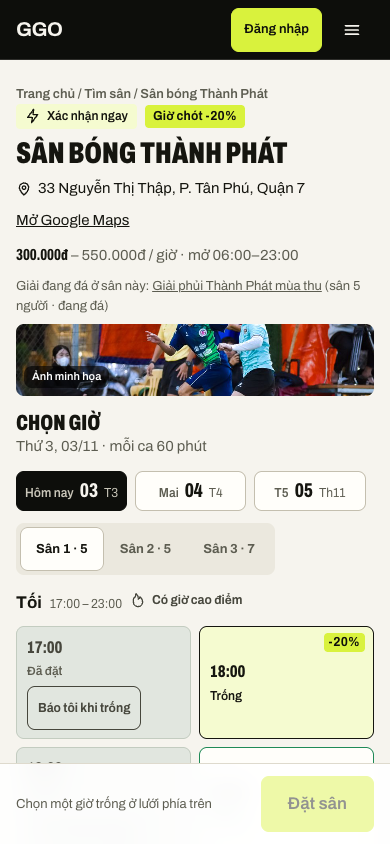
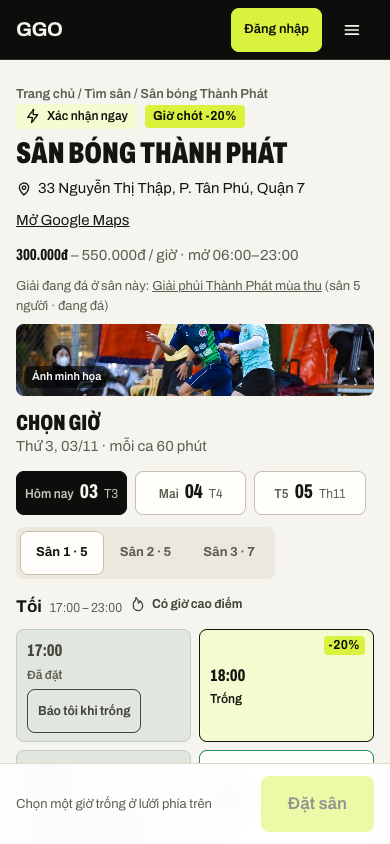
Ảnh trang sân 390 chụp lại sau khi chip ngày cao 44px; cập nhật số đo và bỏ dòng chưa xử lý

diff --git a/docs/buoi2/nop-bai.md b/docs/buoi2/nop-bai.md
@@ -154,7 +154,7 @@ Một ghi nhận khác, không phải lỗi: `docs/TASKS.md` mục T6 ghi "Đã 
 | 3 | Trang chủ **chưa có liên kết tới trang giới thiệu** | Trang chủ | **Đã xử lý.** Thêm trang `public/about.html` (mục 5), liên kết "Giới thiệu GGO" ở footer mọi trang (`public/js/ui/shell.js`) và liên kết "Tìm hiểu về GGO →" ở cuối trang chủ (`public/index.html`). Không đặt vào menu trên cùng vì ở khổ 900 px menu sẽ bị tràn | Trước: không có trang giới thiệu trong `public/`. Sau: trang có và trả 200, đã thêm vào `public/sitemap.xml`; hai liên kết trên đều trỏ tới `about.html` |
 | 5 | **Vòng focus gần như không thấy trên nền tối**: quy tắc chung `:focus-visible { outline: 2px solid var(--text) }` dùng màu `#15150f` trên nền header `#0d0e0b` | Header và menu điện thoại, mọi khổ (liên kết menu, logo, nút Đăng nhập, nút mở menu, mục trong menu, nút khung tìm kiếm trang chủ) | **Đã xử lý.** Vòng focus dùng biến `--focus`: mực trên nền sáng, lime `#d9f23d` trên các vùng nền tối (dòng 135–161). Khung tìm kiếm trang chủ (nền trắng nằm trong ảnh tối) trả lại mực; nút trong khung đó vẽ vòng vào trong nút (`outline-offset: -4px`) vì khung cắt phần vẽ ra ngoài. Nút công cụ demo nổi vẽ vòng lime sát nút (dòng 463–467). Khi kiểm còn phát hiện và sửa thêm hai lỗi cùng nhóm: menu điện thoại đóng vẫn nhận phím Tab dù đã mờ hẳn (nay `visibility: hidden` khi đóng, dòng 401), và header dính che phần tử đang focus khi Tab ngược (`scroll-padding-top` ở dòng 98) | Đo bằng ảnh chụp thật ở mỗi lần Tab, lấy màu nền ngay quanh vòng (3 trang, 390 và 1366, Tab xuôi và ngược, trước 363 mẫu, sau 355 mẫu có vòng): tương phản vòng với nền **trước: 1,06:1** ở header (135 mẫu dưới 3:1); **sau: 15,41:1** trên nền tối, 14,59:1 (vòng mực vào trong nút lime), 16,66–18,16:1 trên nền sáng (liên kết, thẻ, nút Đặt sân). Còn 5 mẫu bị đánh dấu là nút công cụ demo (chỉ có trên dữ liệu giả): vòng sát nút đen nên tương phản đo với chính nút là 15,41:1, không đo với nền trang. Ảnh `focus-lien-ket-menu.png`, `focus-nut-menu.png` |
 | 4 | Ở 768 và 390, mục "Sân còn trống" của trang chủ là **băng cuộn ngang** (có chữ "Vuốt ngang để xem thêm"), nên ảnh chỉ thấy 1–2 thẻ | Trang chủ, 768 / 390 | Cố ý theo thiết kế; nêu rõ khi nộp để người chấm không hiểu là thiếu nội dung | Ở 1366 hiện đủ 3 thẻ trên một hàng |
-| 6 | Ba chip chọn ngày ở trang chi tiết sân cao **41 px** ở 390 px (mức khuyên dùng: 44 px); phát hiện khi đo lại sau đợt cải thiện | Chi tiết sân, 390 px | **Chưa xử lý.** Ghi nhận để sửa tiếp, không ảnh hưởng chức năng | 41 px, chưa đạt 44 px |
+| 6 | Ba chip chọn ngày ở trang chi tiết sân cao **41 px** ở 390 px, thấp hơn mức 44 px (phát hiện khi đo lại sau đợt cải thiện) | Chi tiết sân, 390 px | **Đã xử lý** (commit `8838bcc`): chip cao tối thiểu 44 px ở 390 px | 41 px → 44 px |
 
 **Ghi chú cho người xem ảnh:**
 - Ảnh chụp bản dữ liệu giả nên có thêm thanh "vai trò demo" ở góc dưới và nút giả lập trong menu; bản thật không có các phần này.
@@ -190,7 +190,7 @@ Một ghi nhận khác, không phải lỗi: `docs/TASKS.md` mục T6 ghi "Đã 
 | Chiều dài trang chủ | 4731 → 3730 px | 3779 → 2983 px |
 | Header và logo hiện ra sau | 284 → 64 ms | 109 → 44 ms |
 
-Ở trang sân, 390 × 844 px: hàng giờ đầu tiên trước đây nằm ở y 750–816 và bị thanh đặt sân (y 763) che một phần; nay ở y 624–690, không bị che. Ở 1366 px không đổi (y 489–553).
+Ở trang sân, 390 × 844 px: hàng giờ đầu tiên trước đây nằm ở y 750–816 và bị thanh đặt sân (y 763) che một phần; nay ở y 627–693 (đo sau khi chip ngày cao thêm lên 44 px), không bị che vì thanh đặt sân vẫn ở y 763. Ở 1366 px không đổi (y 489–553).
 
 **Ảnh trước và sau.** Ảnh chụp cùng một kịch bản cho cả hai bản (trước từ commit `a8085ce`, sau từ `main`), chỉ lấy màn hình đầu của mỗi bước. Kịch bản bấm vào giờ đầu tiên của sân đầu tiên trong kết quả nên hai bên có thể rơi vào hai sân khác nhau; so bố cục và chữ, không so tên sân. Ở bản trước, sau khi đăng nhập trang không tự mở hộp xác nhận nên kịch bản phải quay lại sân và bấm Đặt sân lần nữa; ảnh "Hộp xác nhận" của bản trước chụp sau bước đó.
 

diff --git a/docs/buoi2/bao-cao.md b/docs/buoi2/bao-cao.md
@@ -443,7 +443,7 @@ Nhóm đo bằng Playwright trên Chrome, chạy bản dữ liệu mẫu ở má
 | 4 | **Vòng focus gần như không thấy trên nền tối**: viền màu `#15150f` trên header `#0d0e0b` | Header, menu điện thoại, mọi khổ | Vòng focus dùng biến `--focus`: màu chữ trên nền sáng, lime trên nền tối | Độ tương phản 1,06:1 → 15,41:1 |
 | 5 | Menu điện thoại đã đóng **vẫn nhận phím Tab** | 768 / 390 px | Thêm `visibility: hidden` khi menu đóng | Tab không còn rơi vào liên kết ẩn |
 | 6 | Mục "Sân còn trống" ở trang chủ là **băng cuộn ngang** | Trang chủ, 768 / 390 px | Giữ nguyên vì cố ý theo thiết kế, có chữ "Vuốt ngang để xem thêm" | Không tạo cuộn ngang cho cả trang |
-| 7 | Ba chip chọn ngày ở trang chi tiết sân cao **41 px** ở 390 px, thấp hơn mức 44 px (phát hiện khi đo lại sau đợt cải thiện) | Chi tiết sân, 390 px | **Chưa xử lý.** Ghi nhận để sửa tiếp, không ảnh hưởng chức năng | 41 px, chưa đạt 44 px |
+| 7 | Ba chip chọn ngày ở trang chi tiết sân cao **41 px** ở 390 px, thấp hơn mức 44 px (phát hiện khi đo lại sau đợt cải thiện) | Chi tiết sân, 390 px | **Đã xử lý** (commit `8838bcc`): chip cao tối thiểu 44 px ở 390 px | 41 px → 44 px |
 
 *Nguồn: Nhóm tác giả*
 
@@ -477,7 +477,7 @@ Nhóm đo bằng Playwright trên Chrome, chạy bản dữ liệu mẫu ở má
 | Chiều dài trang chủ | 4731 → 3730 px | 3779 → 2983 px |
 | Header và logo hiện ra sau | 284 → 64 ms | 109 → 44 ms |
 
-Ở trang sân, 390 × 844 px: hàng giờ đầu tiên trước đây nằm ở y 750–816 và bị thanh đặt sân (y 763) che một phần; nay ở y 624–690, không bị che. Ở 1366 px không đổi (y 489–553).
+Ở trang sân, 390 × 844 px: hàng giờ đầu tiên trước đây nằm ở y 750–816 và bị thanh đặt sân (y 763) che một phần; nay ở y 627–693 (đo sau khi chip ngày cao thêm lên 44 px), không bị che vì thanh đặt sân vẫn ở y 763. Ở 1366 px không đổi (y 489–553).
 
 **Ảnh trước và sau.** Ảnh chụp cùng một kịch bản cho cả hai bản (trước từ commit `a8085ce`, sau từ `main`), chỉ lấy màn hình đầu của mỗi bước. Kịch bản bấm vào giờ đầu tiên của sân đầu tiên trong kết quả nên hai bên có thể rơi vào hai sân khác nhau; so bố cục và chữ, không so tên sân. Ở bản trước, sau khi đăng nhập trang không tự mở hộp xác nhận nên kịch bản phải quay lại sân và bấm Đặt sân lần nữa; ảnh "Hộp xác nhận" của bản trước chụp sau bước đó.
 
